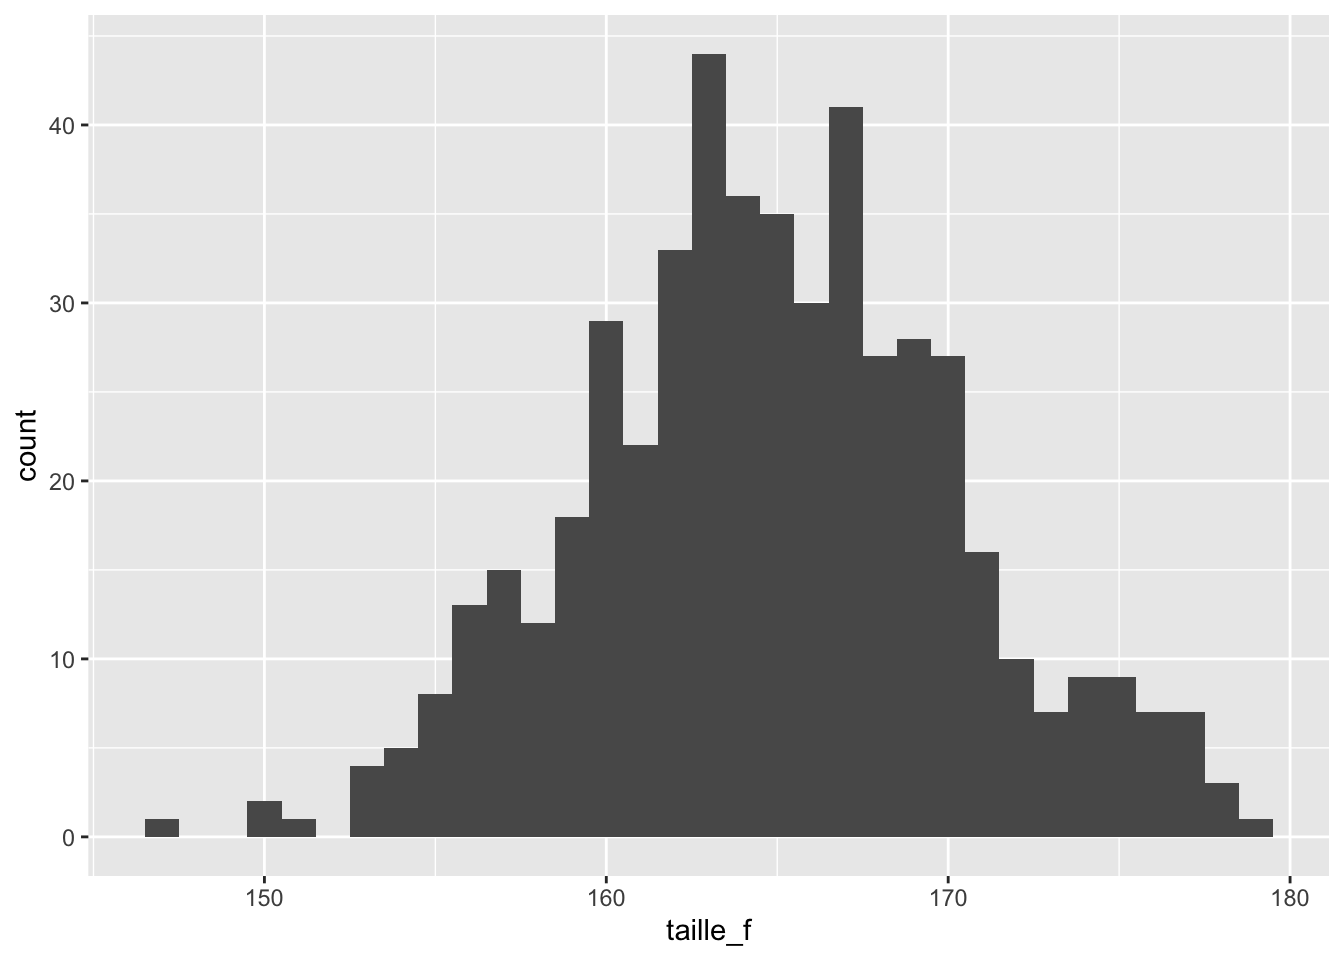
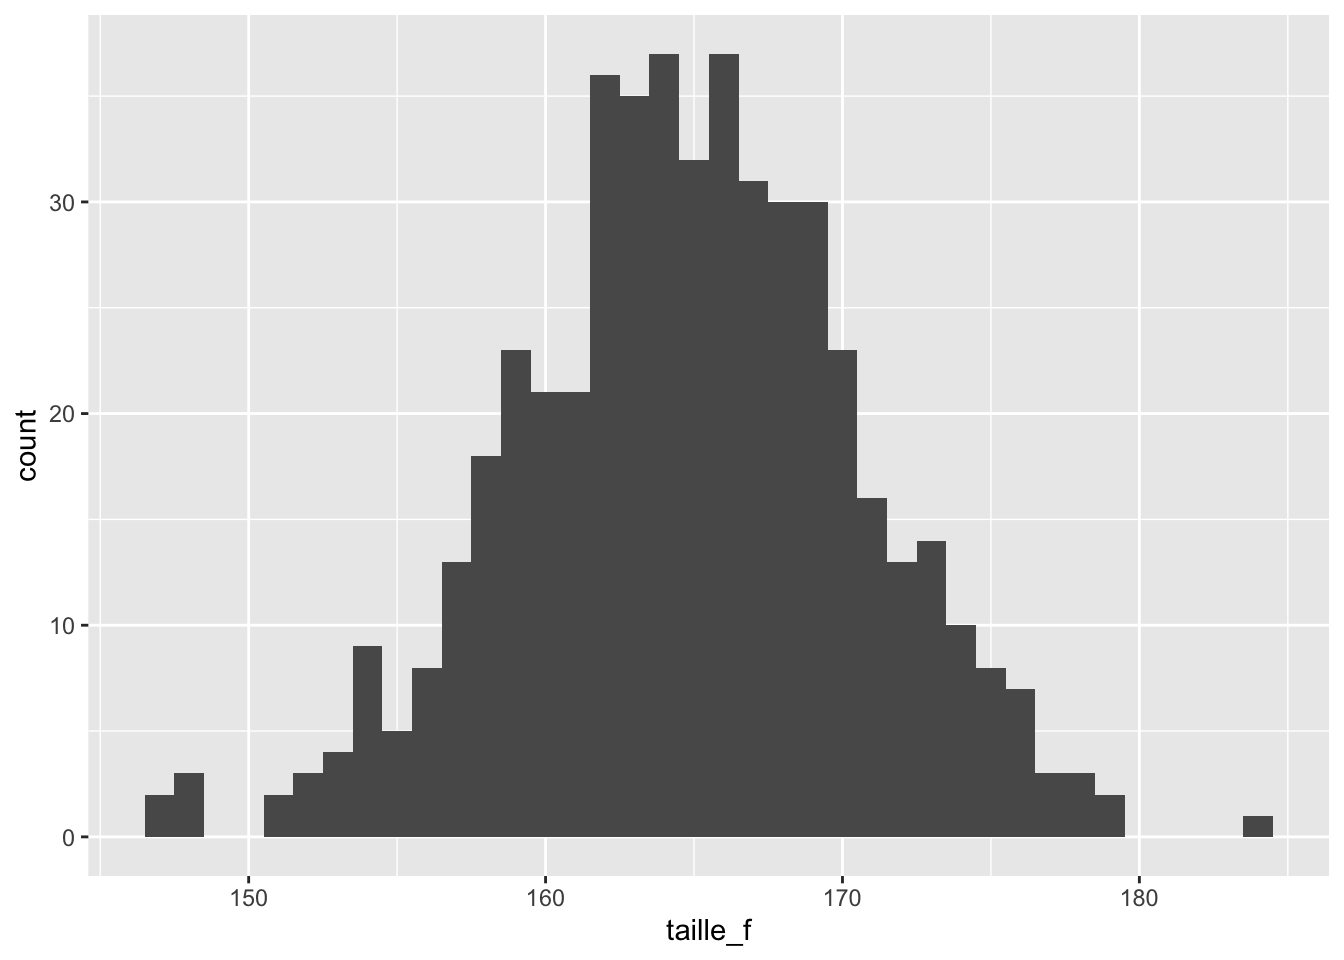
session 7 typos v3

diff --git a/index.html b/index.html
@@ -1728,7 +1728,7 @@ Attention
 <span id="cb100-5"><a href="#cb100-5" aria-hidden="true" tabindex="-1"></a></span>
 <span id="cb100-6"><a href="#cb100-6" aria-hidden="true" tabindex="-1"></a><span class="fu">head</span>(taille_f)</span></code><button title="Copy to Clipboard" class="code-copy-button"><i class="bi"></i></button></pre></div>
 <div class="cell-output cell-output-stdout">
-<pre><code>[1] 169.6972 159.7508 163.4678 160.9406 161.7607 167.3341</code></pre>
+<pre><code>[1] 169.6682 171.6891 165.2242 159.7806 167.2126 166.4692</code></pre>
 </div>
 <div class="sourceCode cell-code" id="cb102"><pre class="sourceCode r code-with-copy"><code class="sourceCode r"><span id="cb102-1"><a href="#cb102-1" aria-hidden="true" tabindex="-1"></a><span class="co"># stocker taille_f comme objet de type 'data.frame'</span></span>
 <span id="cb102-2"><a href="#cb102-2" aria-hidden="true" tabindex="-1"></a>taille_f <span class="ot">&lt;-</span> <span class="fu">as.data.frame</span>(taille_f)</span>
@@ -2161,7 +2161,7 @@ Astuce
 <p>De plus, vous pouvez aussi utiliser <code>|&gt;</code> comme opérateur pipe altérnatif (équivalent à <code>%&gt;%</code>).</p>
 </div>
 </div>
-<p>Vous pouvez déjà constater que travailler avec des jeux de données du monde réel, tels que le jeu de données Instagram <code>igposts</code>, nécessite un travail préparatoire substantiel. Mais rassurez-vous et ne vous découragez pas, plus vous pratiquez, plus cela devient facile et, bientôt, vous serez en mesure de charger facilement des ensembles de données dans RStudio ! Par ailleurs : il est normal de rencontrer des messages d’erreur. C’est une partie essentielle du processus d’apprentissage que de les surmonter en bricolant et en jouant avec vos données jusqu’à ce que vous puissiez les faire fonctionner.</p>
+<p>Vous pouvez déjà constater que travailler avec des jeux de données du monde réel, tels que le jeu de données Instagram <code>igposts</code>, nécessite un travail préparatoire substantiel. Mais rassurez-vous et ne vous découragez pas, plus vous pratiquez, plus cela devient facile et, bientôt, vous serez en mesure de charger facilement des ensembles de données dans RStudio ! Par ailleurs : il est normal de rencontrer des messages d’erreur. C’est une partie essentielle du processus d’apprentissage que de les surmonter en bricolant et en jouant avec vos données et votre code R jusqu’à ce que vous puissiez le faire fonctionner.</p>
 <p>Après avoir chargé notre fichier CSV dans RStudio, appliqué des transformations et notre connaissance de l’opérateur pipe, nous pouvons maintenant manipuler les données avec le package <code>dplyr</code>.</p>
 </section>
 </section>
@@ -2193,8 +2193,8 @@ Astuce
 <div class="sourceCode cell-code" id="cb120"><pre class="sourceCode r code-with-copy"><code class="sourceCode r"><span id="cb120-1"><a href="#cb120-1" aria-hidden="true" tabindex="-1"></a><span class="co"># select() : fonction pour extraire une ou plusieurs</span></span>
 <span id="cb120-2"><a href="#cb120-2" aria-hidden="true" tabindex="-1"></a><span class="co"># colonnes d'un data frame</span></span>
 <span id="cb120-3"><a href="#cb120-3" aria-hidden="true" tabindex="-1"></a></span>
-<span id="cb120-4"><a href="#cb120-4" aria-hidden="true" tabindex="-1"></a><span class="co"># Par exemple, nous pouvons extraire le quatres colonnes</span></span>
-<span id="cb120-5"><a href="#cb120-5" aria-hidden="true" tabindex="-1"></a><span class="co"># suivantes d'igposts (voir comment le pipe est utilisé)</span></span>
+<span id="cb120-4"><a href="#cb120-4" aria-hidden="true" tabindex="-1"></a><span class="co"># Par exemple, nous pouvons extraire les quatres colonnes</span></span>
+<span id="cb120-5"><a href="#cb120-5" aria-hidden="true" tabindex="-1"></a><span class="co"># suivantes d'igposts (voir comment le pipe est utilisé) :</span></span>
 <span id="cb120-6"><a href="#cb120-6" aria-hidden="true" tabindex="-1"></a></span>
 <span id="cb120-7"><a href="#cb120-7" aria-hidden="true" tabindex="-1"></a>igposts <span class="sc">%&gt;%</span></span>
 <span id="cb120-8"><a href="#cb120-8" aria-hidden="true" tabindex="-1"></a>    <span class="fu">select</span>(Account, Type, Followers.at.Posting, Total.Interactions)</span>
